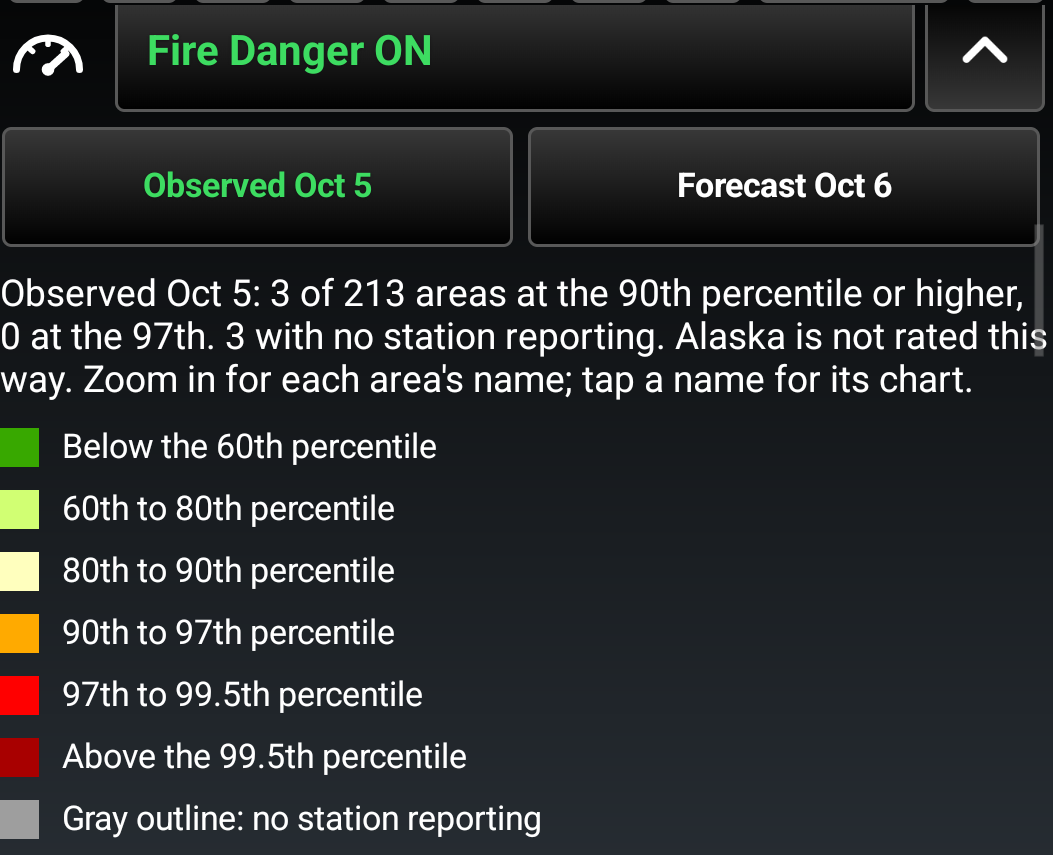
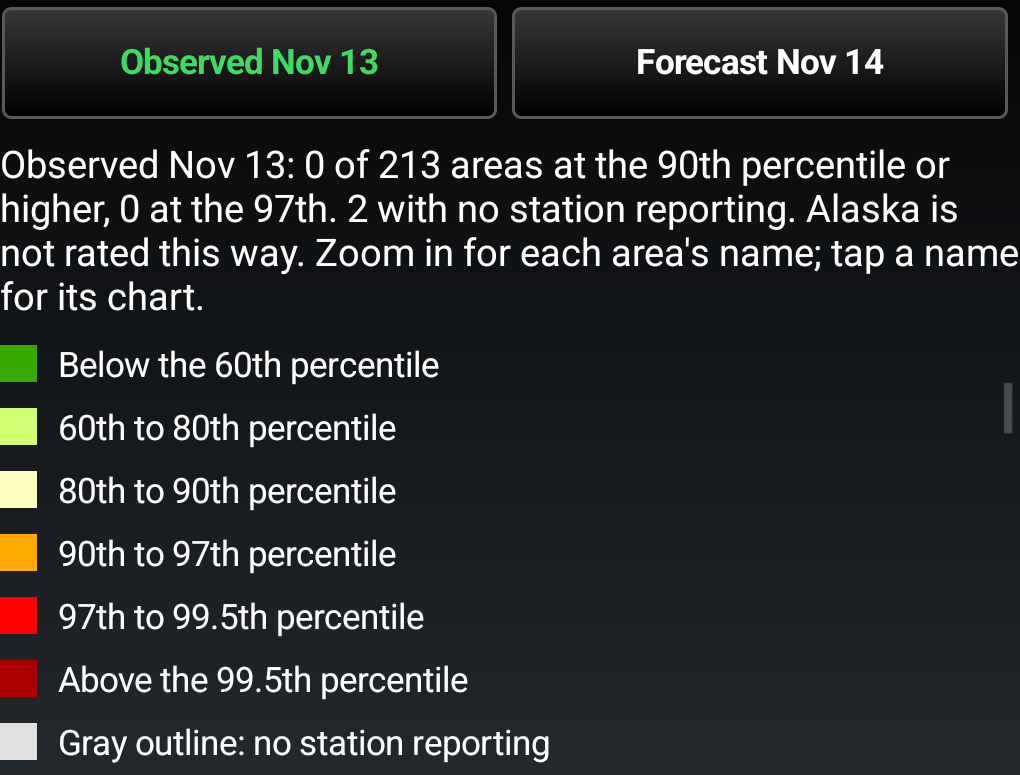
Atmosphere: Fire Danger edges in the area's own color
Every Predictive Service Area had a dark grey (#5A5A5A) edge, which sank
into the satellite map. An area with a reading now has its edge in its
own class color at full strength; one with no station reporting has a
light grey edge (#E0E0E0) instead of mid grey. Key picture 92 retaken on
the dev build for the new grey swatch.

Changed region(s): [[0.0, 0.0, 1.0, 0.8981], [0.0, 0.8981, 0.5471, 0.991], [0.9725, 0.4955, 1.0, 0.5574]]

diff --git a/plugins/Atmosphere/app/src/main/java/com/atakmap/android/atmosphere/overlay/ErcOverlay.java b/plugins/Atmosphere/app/src/main/java/com/atakmap/android/atmosphere/overlay/ErcOverlay.java
@@ -29,7 +29,7 @@ public final class ErcOverlay extends OutlookOverlay {
     private static final String TAG = "AtmosphereErc";
     private static final long POLL_MS = 3L * 60 * 60 * 1000;
     /** A PSA with no station reporting: an outline, and a fill too faint to see so it still answers a tap. */
-    private static final int NO_READING_EDGE = 0xFF9E9E9E;
+    private static final int NO_READING_EDGE = 0xFFE0E0E0;
 
     /** The key: the agency's classes, then what an empty outline means. */
     public static final String[][] LEGEND;
@@ -111,9 +111,14 @@ public final class ErcOverlay extends OutlookOverlay {
         return a.label.isEmpty() ? 0x01 : 0x40;
     }
 
+    /**
+     * The edge in the area's own class color, at full strength; light grey for an area
+     * with no reading. It was a dark grey (#5A5A5A) on every area, which sank into the
+     * satellite map (operator, 2026-11-14: "the grey border is hard to see").
+     */
     @Override
     protected int strokeColor(Area a) {
-        return a.label.isEmpty() ? NO_READING_EDGE : 0xFF5A5A5A;
+        return a.label.isEmpty() ? NO_READING_EDGE : 0xFF000000 | a.color;
     }
 
     /** Each area's label is a tile in its class color, dark text on the light classes. */
